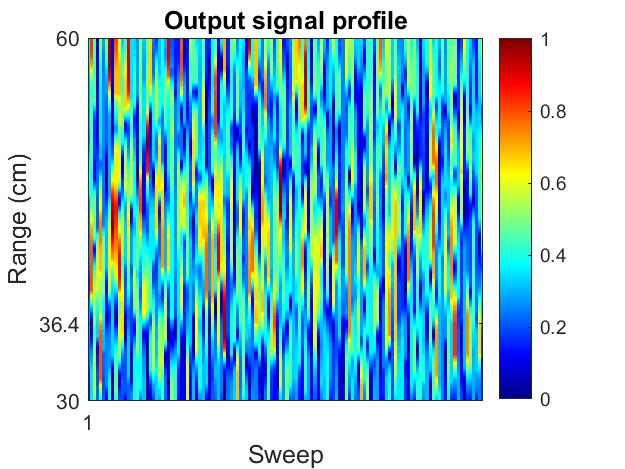
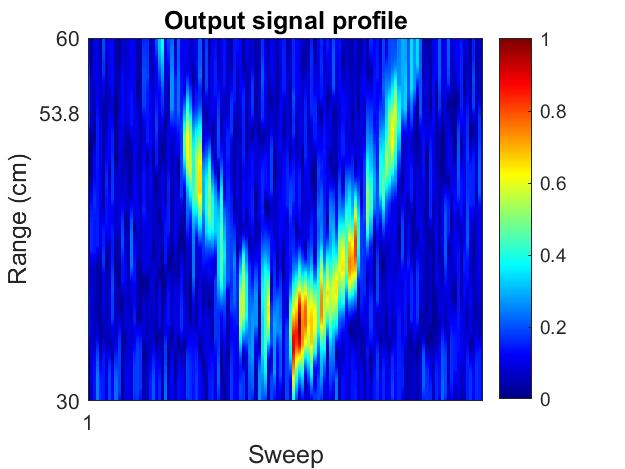
=

diff --git a/project-files/subgroupA/test2_stft.m b/project-files/subgroupA/test2_stft.m
@@ -101,6 +101,8 @@ fh5=figure(5);
 set(fh5,'Position',[200 250 400 300])
 print -djpeg fig5_STFT.jpg
 
+saveas(fh5, replace(filename, '.h5', '.jpg'));
+
 %-------------------------------------------------------
 % Zoom in
 %-------------------------------------------------------

diff --git a/project-files/subgroupA/test1_xm112.m b/project-files/subgroupA/test1_xm112.m
@@ -10,7 +10,7 @@ Rstep  = 4.8400e-04;    % meter
 
 FrameRate = 128;
 
-filename = "raw data xm122\0.3-0.6 40Hz 128 frames\swipe right.h5";
+filename = "raw data xm122\0.3-0.6 40Hz 128 frames\press 1.h5";
 info = h5info(filename);
 
 data = h5read(filename, "/data");
